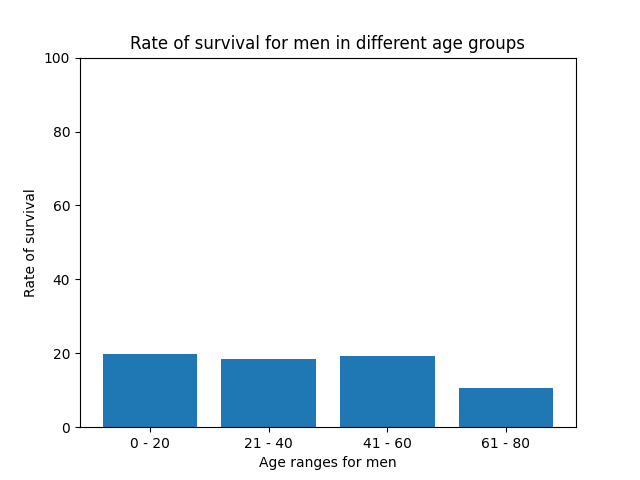
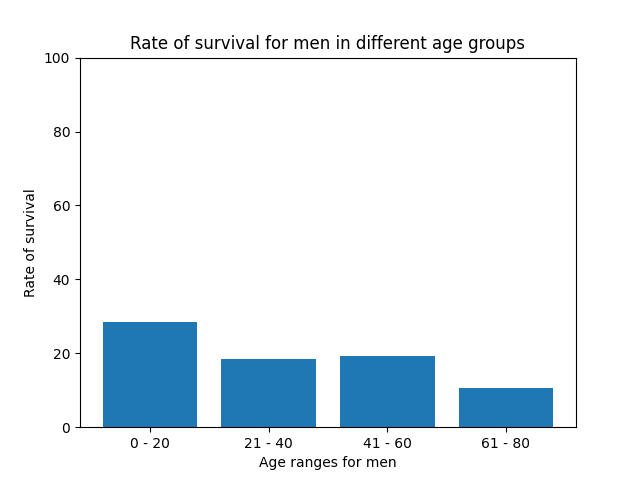
Update fifth and sixth task to account for missing data

Changed region(s): [[0.1562, 0.6562, 0.3125, 0.75]]

diff --git a/ParteaI/AgeRanges.py b/ParteaI/AgeRanges.py
@@ -12,7 +12,7 @@ ranges = [(df['Age'] <= 20), (df['Age'] > 20) & (df['Age'] <= 40), (df['Age'] > 
 
 indexes = [0, 1, 2, 3]
 
-df['Age Range'] = np.select(ranges, indexes)
+df['Age Range'] = np.select(ranges, indexes, np.nan)
 
 sum_category = [(df['Age Range'] == 0).sum(), (df['Age Range'] == 1).sum(), (df['Age Range'] == 2).sum(), (df['Age Range'] == 3).sum()]
 
